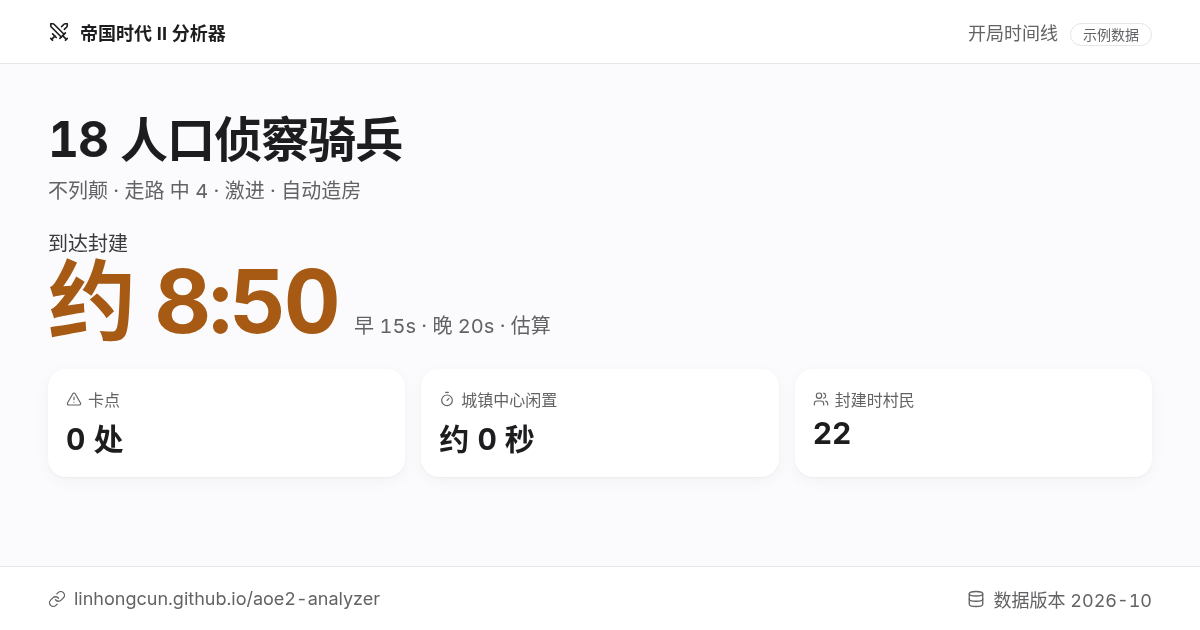
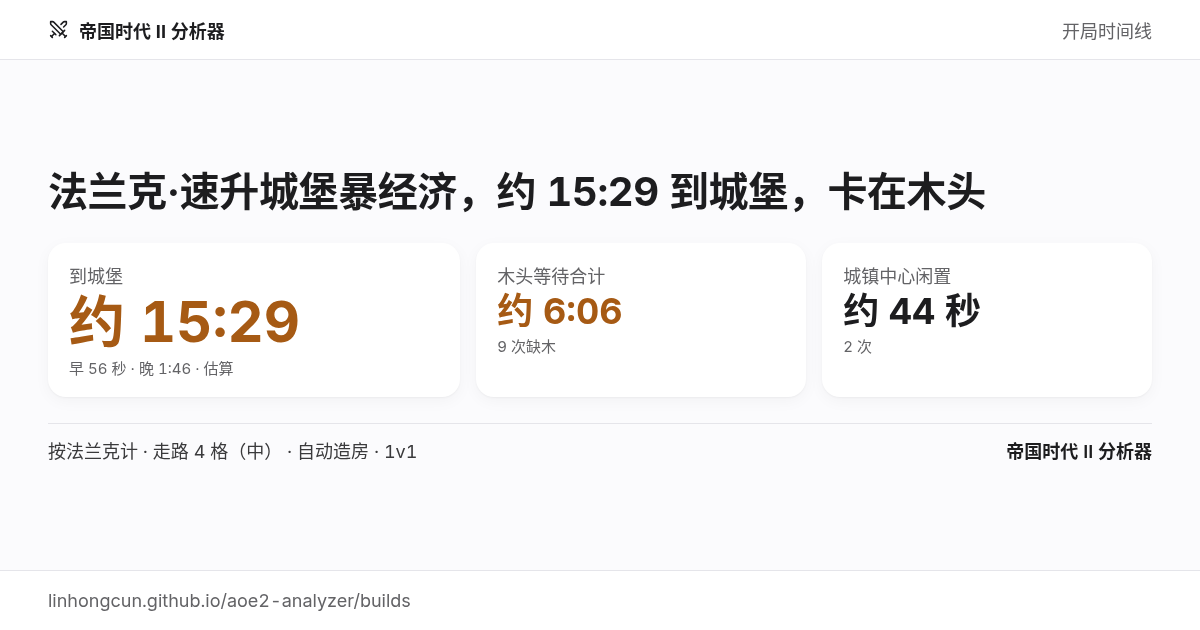
design(#19): share card v2 — three-layer rule, real buildSim numbers (Franks FC boom, 90182cf)

diff --git a/docs/design/mockups/issue19/share-card/portrait-1080x1350.html b/docs/design/mockups/issue19/share-card/portrait-1080x1350.html
@@ -1,18 +1,15 @@
 <!doctype html><meta charset=utf-8><style>*{box-sizing:border-box;margin:0}body{width:1080px;height:1350px;overflow:hidden;background:#fbfbfd;color:#1d1d1f;font-family:Inter,"Noto Sans CJK SC","PingFang SC",sans-serif;font-variant-numeric:tabular-nums}
-.c{width:100%;height:100%;display:flex;flex-direction:column}
-.top,.ft{display:flex;align-items:center;justify-content:space-between;background:#fff;padding:0 72px;height:112px;font-size:26px}
-.top{border-bottom:1px solid #e5e5ea}.ft{border-top:1px solid #e5e5ea;color:#636366}
-.wm{display:flex;gap:10px;align-items:center;font-weight:700;color:#1d1d1f}.kind{color:#636366}
-.ex{font-size:22px;color:#636366;border:1px solid #e5e5ea;border-radius:999px;padding:2px 12px;margin-left:12px;font-weight:500}
-.ft span{display:flex;gap:8px;align-items:center}
-.b{flex:1;padding:72px;display:flex;flex-direction:column;gap:56px}
-h1{font-size:84px;line-height:1.15;letter-spacing:-.02em}.meta{font-size:30px;color:#636366;margin-top:8px}
-.hero{display:flex;align-items:baseline;gap:16px}.hl{font-size:30px;color:#3a3a3c}.hn{font-size:168px;font-weight:700;color:#a65a14;letter-spacing:-.03em;line-height:1}.he{font-size:28px;color:#636366}
-.st{display:grid;grid-template-columns:repeat(3,1fr);gap:16px}.s{background:#fff;border-radius:18px;padding:28px;box-shadow:0 1px 2px #0000000a,0 4px 16px #0000000a}
-.s .l{font-size:24px;color:#636366;display:flex;gap:6px;align-items:center}.s .v{font-size:48px;font-weight:700;margin-top:4px}
-.al .l{font-size:24px;color:#636366;margin-bottom:10px}.bar{display:flex;height:28px;border-radius:8px;overflow:hidden;gap:3px}.bar i{display:block}
-.lg{display:flex;gap:24px;margin-top:10px;font-size:24px;color:#3a3a3c}.lg b{display:inline-block;width:10px;height:10px;border-radius:3px;margin-right:6px}
-.up{display:flex;gap:12px;font-size:24px;flex-wrap:wrap}.up span{background:#f5f5f7;border-radius:999px;padding:6px 14px;color:#3a3a3c}
-</style><body><div class=c><div class=top><span class=wm><svg xmlns="http://www.w3.org/2000/svg" width="30" height="30" viewBox="0 0 24 24" fill="none" stroke="currentColor" stroke-width="1.75" stroke-linecap="round" stroke-linejoin="round" class="lucide lucide-swords" aria-hidden="true"><path d="m13 19 6-6"></path><path d="M14.5 17.5 3.586 6.586A2 2 0 013 5.172V3h2.172a2 2 0 011.414.586L17.5 14.5"></path><path d="m14.828 6.172 2.586-2.586A2 2 0 0118.828 3H21v2.172a2 2 0 01-.586 1.414l-2.586 2.586"></path><path d="m16 16 4 4"></path><path d="m19 21 2-2"></path><path d="m5 14 4 4"></path><path d="m5 21-2-2"></path><path d="M7.5 16.5 4 20"></path></svg>帝国时代 II 分析器</span><span class=kind>开局时间线<span class=ex>示例数据</span></span></div>
-<div class=b><div><h1>18 人口侦察骑兵</h1><div class=meta>不列颠 · 走路 中 4 · 激进 · 自动造房</div></div>
-<div><div class=hl>到达封建</div><div class=hero><span class=hn>约 8:50</span><span class=he>早 15s · 晚 20s · 估算</span></div></div><div class=st><div class=s><div class=l><svg xmlns="http://www.w3.org/2000/svg" width="24" height="24" viewBox="0 0 24 24" fill="none" stroke="currentColor" stroke-width="1.75" stroke-linecap="round" stroke-linejoin="round" class="lucide lucide-triangle-alert lucide-alert-triangle" aria-hidden="true"><path d="m21.73 18-8-14a2 2 0 0 0-3.48 0l-8 14A2 2 0 0 0 4 21h16a2 2 0 0 0 1.73-3"></path><path d="M12 9v4"></path><path d="M12 17h.01"></path></svg>卡点</div><div class=v>0 处</div></div><div class=s><div class=l><svg xmlns="http://www.w3.org/2000/svg" width="24" height="24" viewBox="0 0 24 24" fill="none" stroke="currentColor" stroke-width="1.75" stroke-linecap="round" stroke-linejoin="round" class="lucide lucide-timer" aria-hidden="true"><line x1="10" x2="14" y1="2" y2="2"></line><line x1="12" x2="15" y1="14" y2="11"></line><circle cx="12" cy="14" r="8"></circle></svg>城镇中心闲置</div><div class=v>约 0 秒</div></div><div class=s><div class=l><svg xmlns="http://www.w3.org/2000/svg" width="24" height="24" viewBox="0 0 24 24" fill="none" stroke="currentColor" stroke-width="1.75" stroke-linecap="round" stroke-linejoin="round" class="lucide lucide-users" aria-hidden="true"><path d="M16 21v-2a4 4 0 0 0-4-4H6a4 4 0 0 0-4 4v2"></path><path d="M16 3.128a4 4 0 0 1 0 7.744"></path><path d="M22 21v-2a4 4 0 0 0-3-3.87"></path><circle cx="9" cy="7" r="4"></circle></svg>封建时村民</div><div class=v>22</div></div></div><div class=al><div class=l>村民分配</div><div class=bar><i style="flex:11;background:#e0864a"></i><i style="flex:9;background:#8a6b3d"></i><i style="flex:2;background:#d4a72c"></i></div><div class=lg><span><b style="background:#e0864a"></b>食物 11</span><span><b style="background:#8a6b3d"></b>木头 9</span><span><b style="background:#d4a72c"></b>金子 2</span></div></div><div class=up><span>升封建 约 8:50</span><span>马厩</span></div></div><div class=ft><span><svg xmlns="http://www.w3.org/2000/svg" width="26" height="26" viewBox="0 0 24 24" fill="none" stroke="currentColor" stroke-width="1.75" stroke-linecap="round" stroke-linejoin="round" class="lucide lucide-link" aria-hidden="true"><path d="M10 13a5 5 0 0 0 7.54.54l3-3a5 5 0 0 0-7.07-7.07l-1.72 1.71"></path><path d="M14 11a5 5 0 0 0-7.54-.54l-3 3a5 5 0 0 0 7.07 7.07l1.71-1.71"></path></svg>linhongcun.github.io/aoe2-analyzer/builds</span><span><svg xmlns="http://www.w3.org/2000/svg" width="26" height="26" viewBox="0 0 24 24" fill="none" stroke="currentColor" stroke-width="1.75" stroke-linecap="round" stroke-linejoin="round" class="lucide lucide-database" aria-hidden="true"><ellipse cx="12" cy="5" rx="9" ry="3"></ellipse><path d="M3 5V19A9 3 0 0 0 21 19V5"></path><path d="M3 12A9 3 0 0 0 21 12"></path></svg>数据版本 2026-10</span></div></div>
+.c{height:100%;display:flex;flex-direction:column}.top,.ft{display:flex;align-items:center;background:#fff;padding:0 72px;height:112px;font-size:28px}
+.top{justify-content:space-between;border-bottom:1px solid #e5e5ea}.ft{border-top:1px solid #e5e5ea;color:#636366}
+.wm{display:flex;gap:10px;align-items:center;font-weight:700}.kind{color:#636366}
+.b{flex:1;padding:72px;display:flex;flex-direction:column;justify-content:center;gap:56px}
+h1{font-size:72px;line-height:1.25;letter-spacing:-.01em;font-weight:700}
+.st{display:grid;grid-template-columns:1fr;gap:16px}
+.s{background:#fff;border-radius:18px;padding:28px 32px;box-shadow:0 1px 2px #0000000a,0 4px 16px #0000000a}
+.s .l{font-size:28px;color:#636366}.s .v{font-size:64px;font-weight:700;line-height:1.1;margin-top:4px}.s.a .v{color:#a65a14}.s:first-child .v{font-size:120px}
+.s .e{font-size:23px;color:#636366;margin-top:4px}
+.bs{font-size:28px;color:#3a3a3c;border-top:1px solid #e5e5ea;padding-top:28px;display:flex;justify-content:space-between;gap:16px}.bs b{font-weight:600;color:#1d1d1f}
+.st{grid-template-columns:1fr 1fr}.s:first-child{grid-column:1/3}
+</style><body><div class=c><div class=top><span class=wm><svg width="33" height="33" viewBox="0 0 24 24" fill="none" stroke="currentColor" stroke-width="1.75" stroke-linecap="round" stroke-linejoin="round"><path d="m13 19 6-6"/><path d="M14.5 17.5 3.586 6.586A2 2 0 013 5.172V3h2.172a2 2 0 011.414.586L17.5 14.5"/><path d="m14.828 6.172 2.586-2.586A2 2 0 0118.828 3H21v2.172a2 2 0 01-.586 1.414l-2.586 2.586"/><path d="m16 16 4 4"/><path d="m19 21 2-2"/><path d="m5 14 4 4"/><path d="m5 21-2-2"/><path d="M7.5 16.5 4 20"/></svg>帝国时代 II 分析器</span><span class=kind>开局时间线</span></div>
+<div class=b><h1>法兰克·速升城堡暴经济，<br>约 15:29 到城堡，卡在木头</h1><div class=st><div class="s a"><div class=l>到城堡</div><div class=v>约 15:29</div><div class=e>早 56 秒 · 晚 1:46 · 估算</div></div><div class="s a"><div class=l>木头等待合计</div><div class=v>约 6:06</div><div class=e>9 次缺木</div></div><div class="s"><div class=l>城镇中心闲置</div><div class=v>约 44 秒</div><div class=e>2 次</div></div></div><div class=bs><span>按法兰克计 · 走路 4 格（中） · 自动造房 · 1v1</span><b>帝国时代 II 分析器</b></div></div>
+<div class=ft>linhongcun.github.io/aoe2-analyzer/builds</div></div>

diff --git a/docs/design/mockups/issue19/share-card/landscape-1200x630.html b/docs/design/mockups/issue19/share-card/landscape-1200x630.html
@@ -1,18 +1,15 @@
 <!doctype html><meta charset=utf-8><style>*{box-sizing:border-box;margin:0}body{width:1200px;height:630px;overflow:hidden;background:#fbfbfd;color:#1d1d1f;font-family:Inter,"Noto Sans CJK SC","PingFang SC",sans-serif;font-variant-numeric:tabular-nums}
-.c{width:100%;height:100%;display:flex;flex-direction:column}
-.top,.ft{display:flex;align-items:center;justify-content:space-between;background:#fff;padding:0 48px;height:64px;font-size:18px}
-.top{border-bottom:1px solid #e5e5ea}.ft{border-top:1px solid #e5e5ea;color:#636366}
-.wm{display:flex;gap:10px;align-items:center;font-weight:700;color:#1d1d1f}.kind{color:#636366}
-.ex{font-size:14px;color:#636366;border:1px solid #e5e5ea;border-radius:999px;padding:2px 12px;margin-left:12px;font-weight:500}
-.ft span{display:flex;gap:8px;align-items:center}
-.b{flex:1;padding:48px;display:flex;flex-direction:column;gap:24px}
-h1{font-size:48px;line-height:1.15;letter-spacing:-.02em}.meta{font-size:20px;color:#636366;margin-top:8px}
-.hero{display:flex;align-items:baseline;gap:16px}.hl{font-size:20px;color:#3a3a3c}.hn{font-size:88px;font-weight:700;color:#a65a14;letter-spacing:-.03em;line-height:1}.he{font-size:20px;color:#636366}
-.st{display:grid;grid-template-columns:repeat(3,1fr);gap:16px}.s{background:#fff;border-radius:18px;padding:18px;box-shadow:0 1px 2px #0000000a,0 4px 16px #0000000a}
-.s .l{font-size:16px;color:#636366;display:flex;gap:6px;align-items:center}.s .v{font-size:30px;font-weight:700;margin-top:4px}
-.al .l{font-size:16px;color:#636366;margin-bottom:10px}.bar{display:flex;height:20px;border-radius:8px;overflow:hidden;gap:3px}.bar i{display:block}
-.lg{display:flex;gap:24px;margin-top:10px;font-size:16px;color:#3a3a3c}.lg b{display:inline-block;width:10px;height:10px;border-radius:3px;margin-right:6px}
-.up{display:flex;gap:12px;font-size:16px;flex-wrap:wrap}.up span{background:#f5f5f7;border-radius:999px;padding:6px 14px;color:#3a3a3c}
-</style><body><div class=c><div class=top><span class=wm><svg xmlns="http://www.w3.org/2000/svg" width="22" height="22" viewBox="0 0 24 24" fill="none" stroke="currentColor" stroke-width="1.75" stroke-linecap="round" stroke-linejoin="round" class="lucide lucide-swords" aria-hidden="true"><path d="m13 19 6-6"></path><path d="M14.5 17.5 3.586 6.586A2 2 0 013 5.172V3h2.172a2 2 0 011.414.586L17.5 14.5"></path><path d="m14.828 6.172 2.586-2.586A2 2 0 0118.828 3H21v2.172a2 2 0 01-.586 1.414l-2.586 2.586"></path><path d="m16 16 4 4"></path><path d="m19 21 2-2"></path><path d="m5 14 4 4"></path><path d="m5 21-2-2"></path><path d="M7.5 16.5 4 20"></path></svg>帝国时代 II 分析器</span><span class=kind>开局时间线<span class=ex>示例数据</span></span></div>
-<div class=b><div><h1>18 人口侦察骑兵</h1><div class=meta>不列颠 · 走路 中 4 · 激进 · 自动造房</div></div>
-<div><div class=hl>到达封建</div><div class=hero><span class=hn>约 8:50</span><span class=he>早 15s · 晚 20s · 估算</span></div></div><div class=st><div class=s><div class=l><svg xmlns="http://www.w3.org/2000/svg" width="16" height="16" viewBox="0 0 24 24" fill="none" stroke="currentColor" stroke-width="1.75" stroke-linecap="round" stroke-linejoin="round" class="lucide lucide-triangle-alert lucide-alert-triangle" aria-hidden="true"><path d="m21.73 18-8-14a2 2 0 0 0-3.48 0l-8 14A2 2 0 0 0 4 21h16a2 2 0 0 0 1.73-3"></path><path d="M12 9v4"></path><path d="M12 17h.01"></path></svg>卡点</div><div class=v>0 处</div></div><div class=s><div class=l><svg xmlns="http://www.w3.org/2000/svg" width="16" height="16" viewBox="0 0 24 24" fill="none" stroke="currentColor" stroke-width="1.75" stroke-linecap="round" stroke-linejoin="round" class="lucide lucide-timer" aria-hidden="true"><line x1="10" x2="14" y1="2" y2="2"></line><line x1="12" x2="15" y1="14" y2="11"></line><circle cx="12" cy="14" r="8"></circle></svg>城镇中心闲置</div><div class=v>约 0 秒</div></div><div class=s><div class=l><svg xmlns="http://www.w3.org/2000/svg" width="16" height="16" viewBox="0 0 24 24" fill="none" stroke="currentColor" stroke-width="1.75" stroke-linecap="round" stroke-linejoin="round" class="lucide lucide-users" aria-hidden="true"><path d="M16 21v-2a4 4 0 0 0-4-4H6a4 4 0 0 0-4 4v2"></path><path d="M16 3.128a4 4 0 0 1 0 7.744"></path><path d="M22 21v-2a4 4 0 0 0-3-3.87"></path><circle cx="9" cy="7" r="4"></circle></svg>封建时村民</div><div class=v>22</div></div></div></div><div class=ft><span><svg xmlns="http://www.w3.org/2000/svg" width="18" height="18" viewBox="0 0 24 24" fill="none" stroke="currentColor" stroke-width="1.75" stroke-linecap="round" stroke-linejoin="round" class="lucide lucide-link" aria-hidden="true"><path d="M10 13a5 5 0 0 0 7.54.54l3-3a5 5 0 0 0-7.07-7.07l-1.72 1.71"></path><path d="M14 11a5 5 0 0 0-7.54-.54l-3 3a5 5 0 0 0 7.07 7.07l1.71-1.71"></path></svg>linhongcun.github.io/aoe2-analyzer</span><span><svg xmlns="http://www.w3.org/2000/svg" width="18" height="18" viewBox="0 0 24 24" fill="none" stroke="currentColor" stroke-width="1.75" stroke-linecap="round" stroke-linejoin="round" class="lucide lucide-database" aria-hidden="true"><ellipse cx="12" cy="5" rx="9" ry="3"></ellipse><path d="M3 5V19A9 3 0 0 0 21 19V5"></path><path d="M3 12A9 3 0 0 0 21 12"></path></svg>数据版本 2026-10</span></div></div>
+.c{height:100%;display:flex;flex-direction:column}.top,.ft{display:flex;align-items:center;background:#fff;padding:0 48px;height:60px;font-size:18px}
+.top{justify-content:space-between;border-bottom:1px solid #e5e5ea}.ft{border-top:1px solid #e5e5ea;color:#636366}
+.wm{display:flex;gap:10px;align-items:center;font-weight:700}.kind{color:#636366}
+.b{flex:1;padding:48px;display:flex;flex-direction:column;justify-content:center;gap:26px}
+h1{font-size:40px;line-height:1.25;letter-spacing:-.01em;font-weight:700}
+.st{display:grid;grid-template-columns:1.25fr 1fr 1fr;gap:16px}
+.s{background:#fff;border-radius:18px;padding:19px 21px;box-shadow:0 1px 2px #0000000a,0 4px 16px #0000000a}
+.s .l{font-size:18px;color:#636366}.s .v{font-size:36px;font-weight:700;line-height:1.1;margin-top:4px}.s.a .v{color:#a65a14}.s:first-child .v{font-size:56px}
+.s .e{font-size:15px;color:#636366;margin-top:4px}
+.bs{font-size:18px;color:#3a3a3c;border-top:1px solid #e5e5ea;padding-top:13px;display:flex;justify-content:space-between;gap:16px}.bs b{font-weight:600;color:#1d1d1f}
+
+</style><body><div class=c><div class=top><span class=wm><svg width="21" height="21" viewBox="0 0 24 24" fill="none" stroke="currentColor" stroke-width="1.75" stroke-linecap="round" stroke-linejoin="round"><path d="m13 19 6-6"/><path d="M14.5 17.5 3.586 6.586A2 2 0 013 5.172V3h2.172a2 2 0 011.414.586L17.5 14.5"/><path d="m14.828 6.172 2.586-2.586A2 2 0 0118.828 3H21v2.172a2 2 0 01-.586 1.414l-2.586 2.586"/><path d="m16 16 4 4"/><path d="m19 21 2-2"/><path d="m5 14 4 4"/><path d="m5 21-2-2"/><path d="M7.5 16.5 4 20"/></svg>帝国时代 II 分析器</span><span class=kind>开局时间线</span></div>
+<div class=b><h1>法兰克·速升城堡暴经济，约 15:29 到城堡，卡在木头</h1><div class=st><div class="s a"><div class=l>到城堡</div><div class=v>约 15:29</div><div class=e>早 56 秒 · 晚 1:46 · 估算</div></div><div class="s a"><div class=l>木头等待合计</div><div class=v>约 6:06</div><div class=e>9 次缺木</div></div><div class="s"><div class=l>城镇中心闲置</div><div class=v>约 44 秒</div><div class=e>2 次</div></div></div><div class=bs><span>按法兰克计 · 走路 4 格（中） · 自动造房 · 1v1</span><b>帝国时代 II 分析器</b></div></div>
+<div class=ft>linhongcun.github.io/aoe2-analyzer/builds</div></div>

diff --git a/docs/design/mockups/issue19/share-card/gen.py b/docs/design/mockups/issue19/share-card/gen.py
@@ -1,0 +1,24 @@
+# 数据：main bb9ff17 simulateBuild('fast-castle-boom','Franks',{walkTiles:4,autoHouses:true})；simSupport('Franks')=true
+D=dict(concl="法兰克·速升城堡暴经济，约 15:29 到城堡，卡在木头",
+ k=[("到城堡","约 15:29",True,"早 56 秒 · 晚 1:46 · 估算"),("木头等待合计","约 6:06",True,"9 次缺木"),("城镇中心闲置","约 44 秒",False,"2 次")],
+ basis="按法兰克计 · 走路 4 格（中） · 自动造房 · 1v1",site="帝国时代 II 分析器",url="linhongcun.github.io/aoe2-analyzer/builds")
+SW='<svg width="{s}" height="{s}" viewBox="0 0 24 24" fill="none" stroke="currentColor" stroke-width="1.75" stroke-linecap="round" stroke-linejoin="round"><path d="m13 19 6-6"/><path d="M14.5 17.5 3.586 6.586A2 2 0 013 5.172V3h2.172a2 2 0 011.414.586L17.5 14.5"/><path d="m14.828 6.172 2.586-2.586A2 2 0 0118.828 3H21v2.172a2 2 0 01-.586 1.414l-2.586 2.586"/><path d="m16 16 4 4"/><path d="m19 21 2-2"/><path d="m5 14 4 4"/><path d="m5 21-2-2"/><path d="M7.5 16.5 4 20"/></svg>'
+def page(W,H,u,pad,bar,h1,hn,v,lab,gap):
+  ks=''.join(f'<div class="s{" a" if a else ""}"><div class=l>{l}</div><div class=v>{x}</div><div class=e>{e}</div></div>' for l,x,a,e in D['k'])
+  return f'''<!doctype html><meta charset=utf-8><style>*{{box-sizing:border-box;margin:0}}body{{width:{W}px;height:{H}px;overflow:hidden;background:#fbfbfd;color:#1d1d1f;font-family:Inter,"Noto Sans CJK SC","PingFang SC",sans-serif;font-variant-numeric:tabular-nums}}
+.c{{height:100%;display:flex;flex-direction:column}}.top,.ft{{display:flex;align-items:center;background:#fff;padding:0 {pad}px;height:{bar}px;font-size:{lab}px}}
+.top{{justify-content:space-between;border-bottom:1px solid #e5e5ea}}.ft{{border-top:1px solid #e5e5ea;color:#636366}}
+.wm{{display:flex;gap:10px;align-items:center;font-weight:700}}.kind{{color:#636366}}
+.b{{flex:1;padding:{pad}px;display:flex;flex-direction:column;justify-content:center;gap:{gap}px}}
+h1{{font-size:{h1}px;line-height:1.25;letter-spacing:-.01em;font-weight:700}}
+.st{{display:grid;grid-template-columns:{"1fr" if H>W else "1.25fr 1fr 1fr"};gap:16px}}
+.s{{background:#fff;border-radius:18px;padding:{int(pad*.4)}px {int(pad*.45)}px;box-shadow:0 1px 2px #0000000a,0 4px 16px #0000000a}}
+.s .l{{font-size:{lab}px;color:#636366}}.s .v{{font-size:{v}px;font-weight:700;line-height:1.1;margin-top:4px}}.s.a .v{{color:#a65a14}}.s:first-child .v{{font-size:{hn}px}}
+.s .e{{font-size:{int(lab*.85)}px;color:#636366;margin-top:4px}}
+.bs{{font-size:{lab}px;color:#3a3a3c;border-top:1px solid #e5e5ea;padding-top:{int(gap*.5)}px;display:flex;justify-content:space-between;gap:16px}}.bs b{{font-weight:600;color:#1d1d1f}}
+{".st{grid-template-columns:1fr 1fr}.s:first-child{grid-column:1/3}" if H>W else ""}
+</style><body><div class=c><div class=top><span class=wm>{SW.format(s=int(lab*1.2))}{D["site"]}</span><span class=kind>开局时间线</span></div>
+<div class=b><h1>{D["concl"].replace("，","，<wbr>",1).replace("暴经济，<wbr>","暴经济，<br>") if H>W else D["concl"]}</h1><div class=st>{ks}</div><div class=bs><span>{D["basis"]}</span><b>{D["site"]}</b></div></div>
+<div class=ft>{D["url"]}</div></div>'''
+open('portrait-1080x1350.html','w').write(page(1080,1350,'',72,112,72,120,64,28,56))
+open('landscape-1200x630.html','w').write(page(1200,630,'',48,60,40,56,36,18,26))

diff --git a/docs/design/mockups/issue19/share-card/SPEC.md b/docs/design/mockups/issue19/share-card/SPEC.md
@@ -1,0 +1,25 @@
+# #19 分享卡 v2：三层口径（Steve 定）
+
+数据：main `bb9ff17`，`simulateBuild(fast-castle-boom, 'Franks', eco, ups, { walkTiles: 4, autoHouses: true })`；`simSupport('Franks') === true`。
+- 到城堡 reachAt 929s → 15:29，errSec early 55.7 / late 106.2 → 早 56 秒 · 晚 1:46
+- resource_short(wood) 9 次，waitSec 合计 366.3s → 6:06；无 pop_block
+- tcIdleTotal 约 44s（2 次 idle_tc）
+
+## 三层
+1. 结论句（自动生成，见下表）
+2. 关键数 3 个，琥珀最多 2 个：目标时代到达时间（琥珀）、主卡点等待合计（琥珀；无卡点时换成 TC 闲置，中性）、TC 闲置（中性）
+3. 口径行：按{文明}计 · 走路 {n} 格（近/中/远） · 自动造房/手动造房 · 1v1/团队 + 站名
+- 竖版 1080×1350 页脚只放 URL 文字；横版 1200×630 不放村民分配条。两版都不放村民分配条（不属于三层）。
+- 置灰文明（`simSupport` 为 false）不生成分享卡，分享按钮置灰。不用梗、不评强弱。
+
+## 结论句模板
+主卡点判定（与步骤行优先级一致）：有 pop_block → 人口；否则取 resource_short 按资源合计 waitSec 最大者；最大合计 < 10 秒 → 无卡点。
+| 主卡点 | 模板 | 例 |
+|---|---|---|
+| 木头 | {文明}·{开局}，约 {m:ss} 到{时代}，卡在木头 | 法兰克·速升城堡暴经济，约 15:29 到城堡，卡在木头 |
+| 食物 | …，卡在食物 | |
+| 金子 | …，卡在金子 | |
+| 人口 | …，卡在人口（等房子） | |
+| 无 | {文明}·{开局}，约 {m:ss} 到{时代}，全程不卡 | |
+| 超时（60 分钟内未到） | {文明}·{开局}，60 分钟内没到{时代}，卡在{主卡点} | |
+{时代} 取该开局最后一个 ageUp；时间统一 m:ss，前缀「约」。
